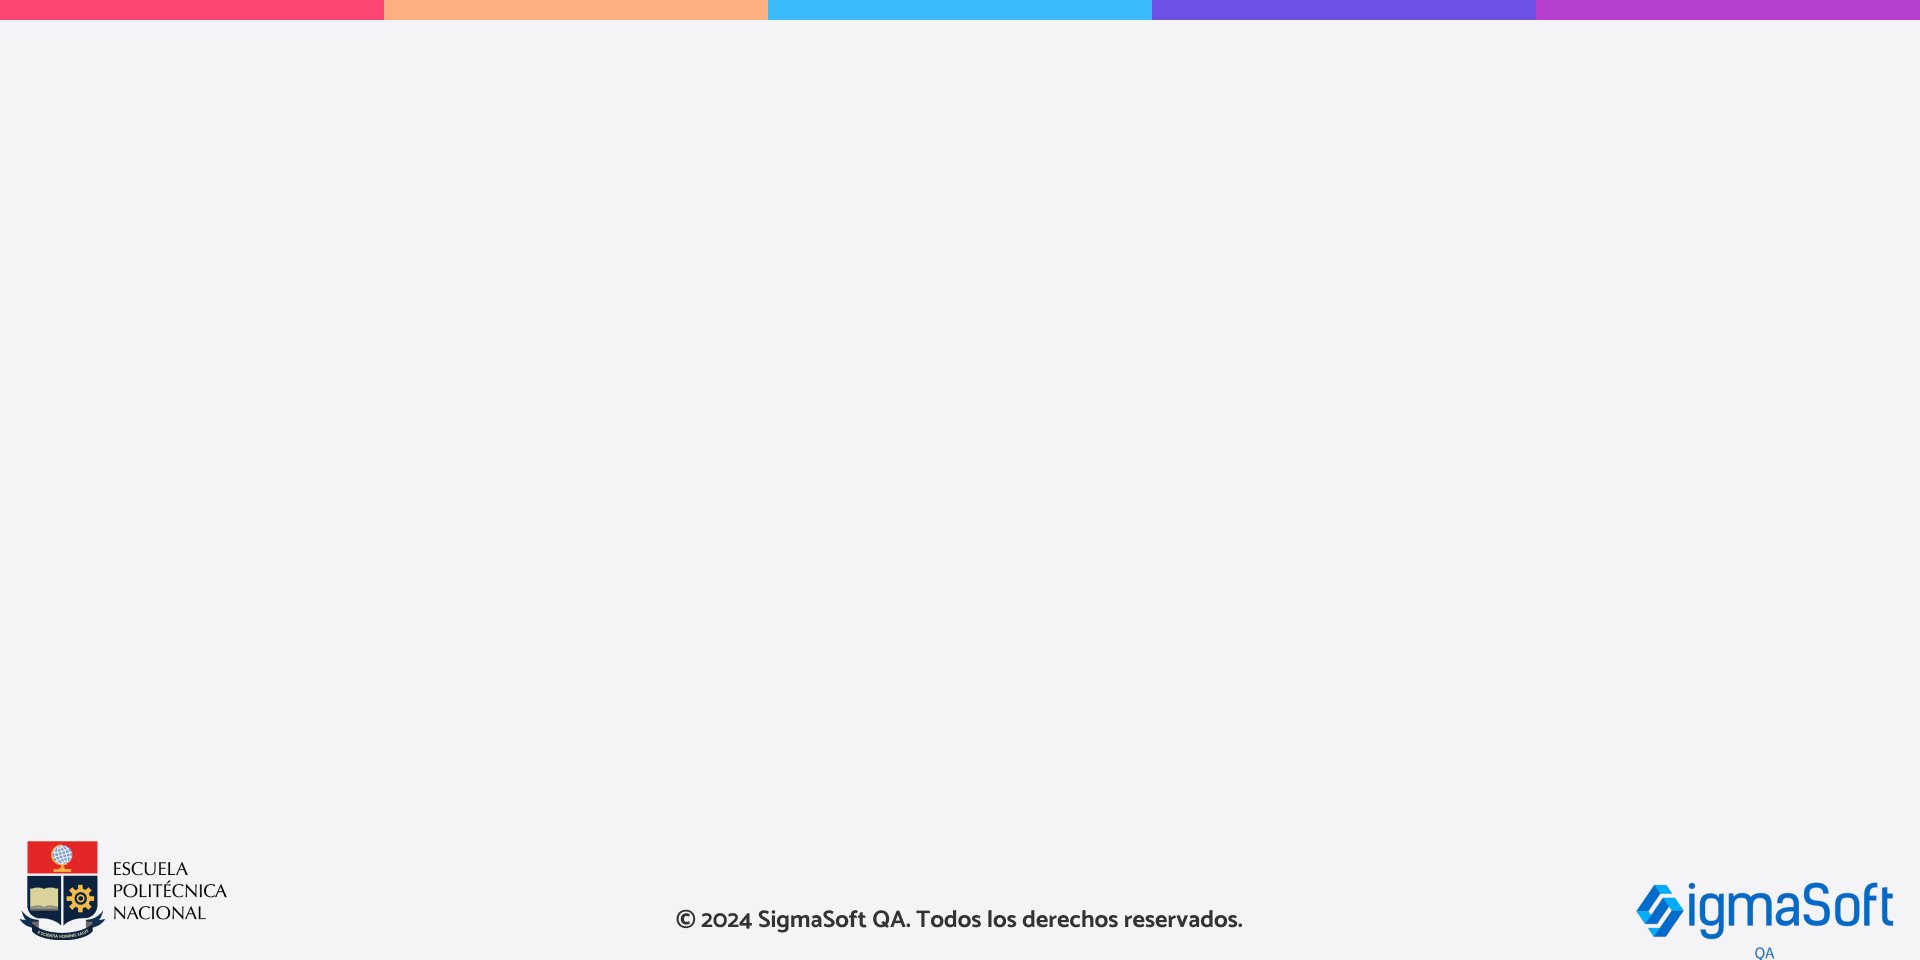
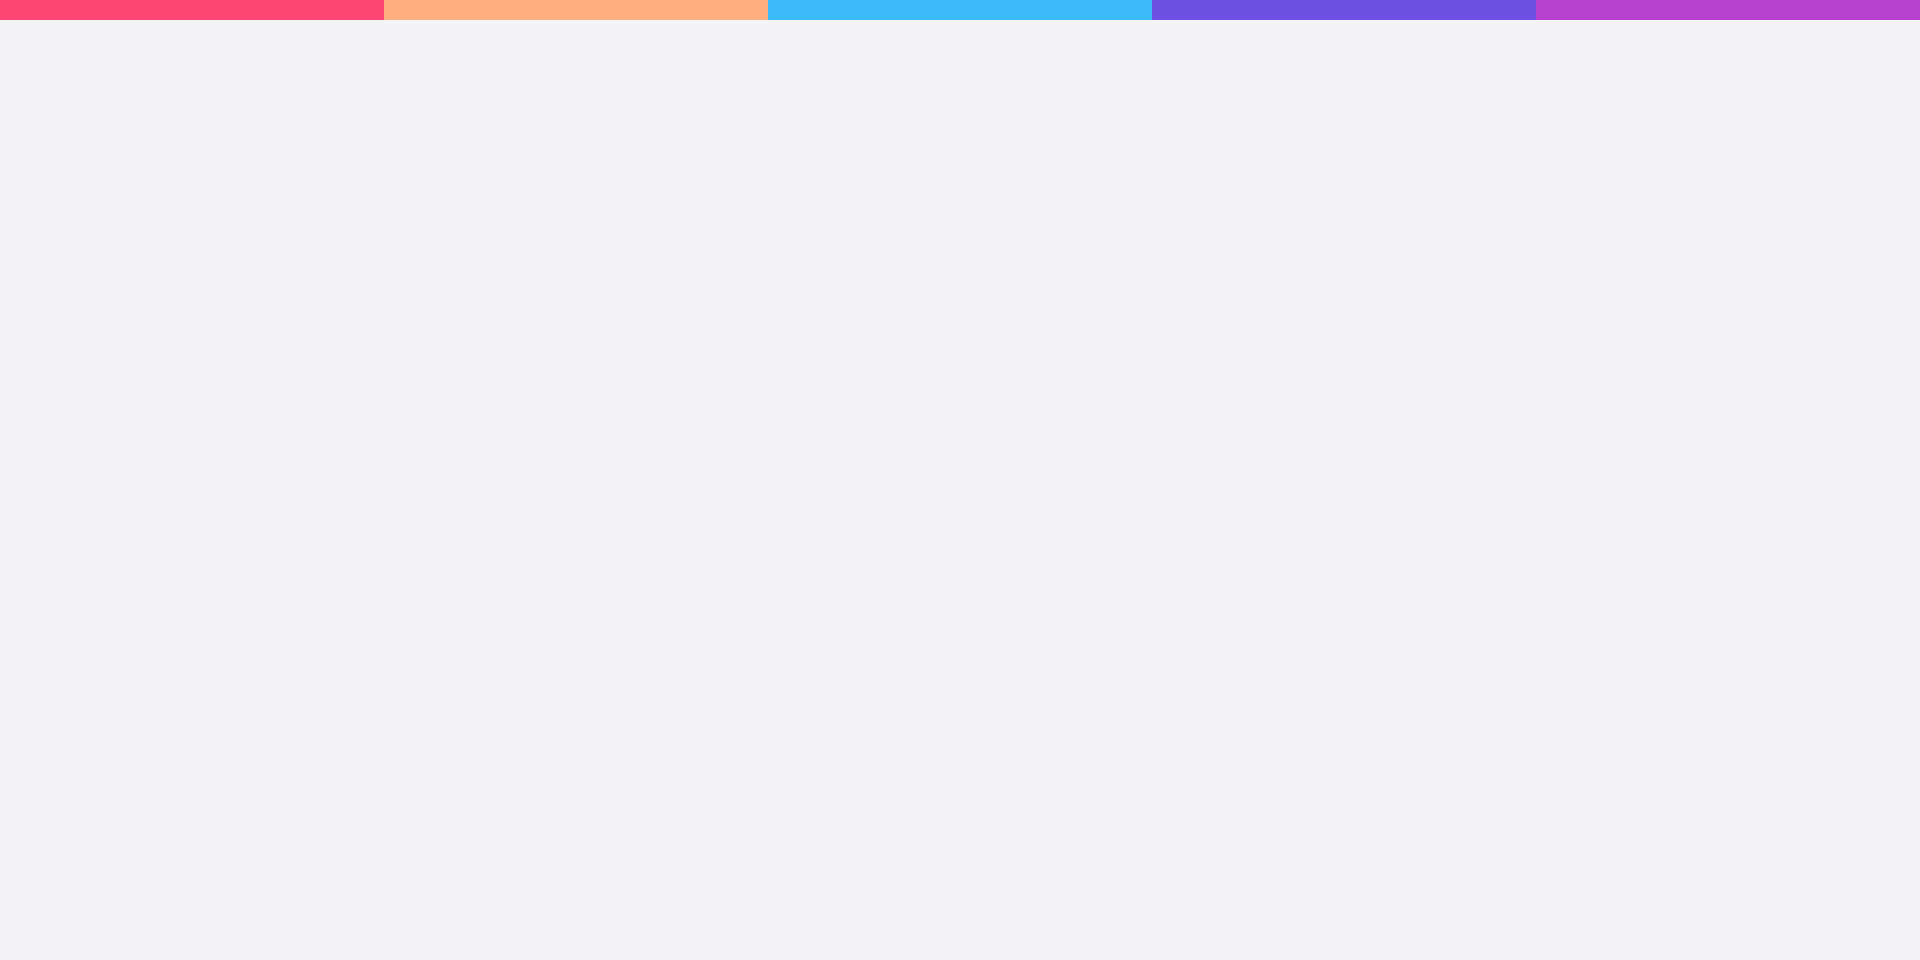
Update: Se añaden fondos a las pantallas restantes

Changed region(s): [[0.0, 0.875, 0.125, 1.0], [0.8438, 0.9062, 1.0, 0.9688], [0.3438, 0.9375, 0.6562, 0.9688]]

diff --git a/src/Components/PuzzleDemo/PuzzleDemo.js b/src/Components/PuzzleDemo/PuzzleDemo.js
@@ -56,10 +56,9 @@ class PuzzleDemo extends Component {
     }
 
     render() {
-        const width = `${document.documentElement.clientWidth}px`;
-        const height = `${document.documentElement.clientHeight}px`;
+
         return (
-            <div id="phaser-game" style={{ width, height, backgroundColor: "black" }}>
+            <div id="phaser-game" style={{ width:'100vw' , height: '100vh', backgroundColor: "black" , display: 'flex'}}>
                 {/* Botón de redirección al login */}
                 <div style={buttonContainerStyle}>
                     <Link to="/login">

diff --git a/src/Components/PuzzleDemo/Scenes/PuzzleScene.js b/src/Components/PuzzleDemo/Scenes/PuzzleScene.js
@@ -26,7 +26,7 @@ import { scaleImage, wrapResizeFn }  from '../Utils/Resize';
     }
     preload() {
         this.load.image('terminarButton', '/Assets/Button/terminar.png');
-        this.load.image('puzzlescenebk', '/Assets/GameScenes/PuzzleSbkEnBlanco.png')
+        this.load.image('puzzlescenebk', '/Assets/GameScenes/PuzzleSbk.png')
         console.log("paso de cuenta abajo 1 " + this.countDown)
         this.load.image('red', '/Assets/New/1.png')
         this.load.image('blue', '/Assets/New/8.png')

diff --git a/src/Patients.css b/src/Patients.css
@@ -1,6 +1,7 @@
 /* General container to occupy full width and height of the screen */
 body{
-  background-color: #F7EDE3; /* Usando el color #FECE8C como fondo general */
+  background-image: url('../public/Assets/GameScenes/PuzzleSbk.png'); /* Ruta a la imagen */
+  background-size: cover; /* Ajusta la imagen para cubrir toda el área */
 }
 
 .patients-container {

diff --git a/src/Login.css b/src/Login.css
@@ -1,7 +1,8 @@
 /* login.css */
 body {
   font-family: Arial, sans-serif;
-  background-color: #f0f8ff;
+  background-image: url('../public/Assets/GameScenes/PuzzleSbk.png'); /* Ruta a la imagen */
+  background-size: cover; /* Ajusta la imagen para cubrir toda el área */
   display: flex;
   justify-content: center;
   align-items: center;
